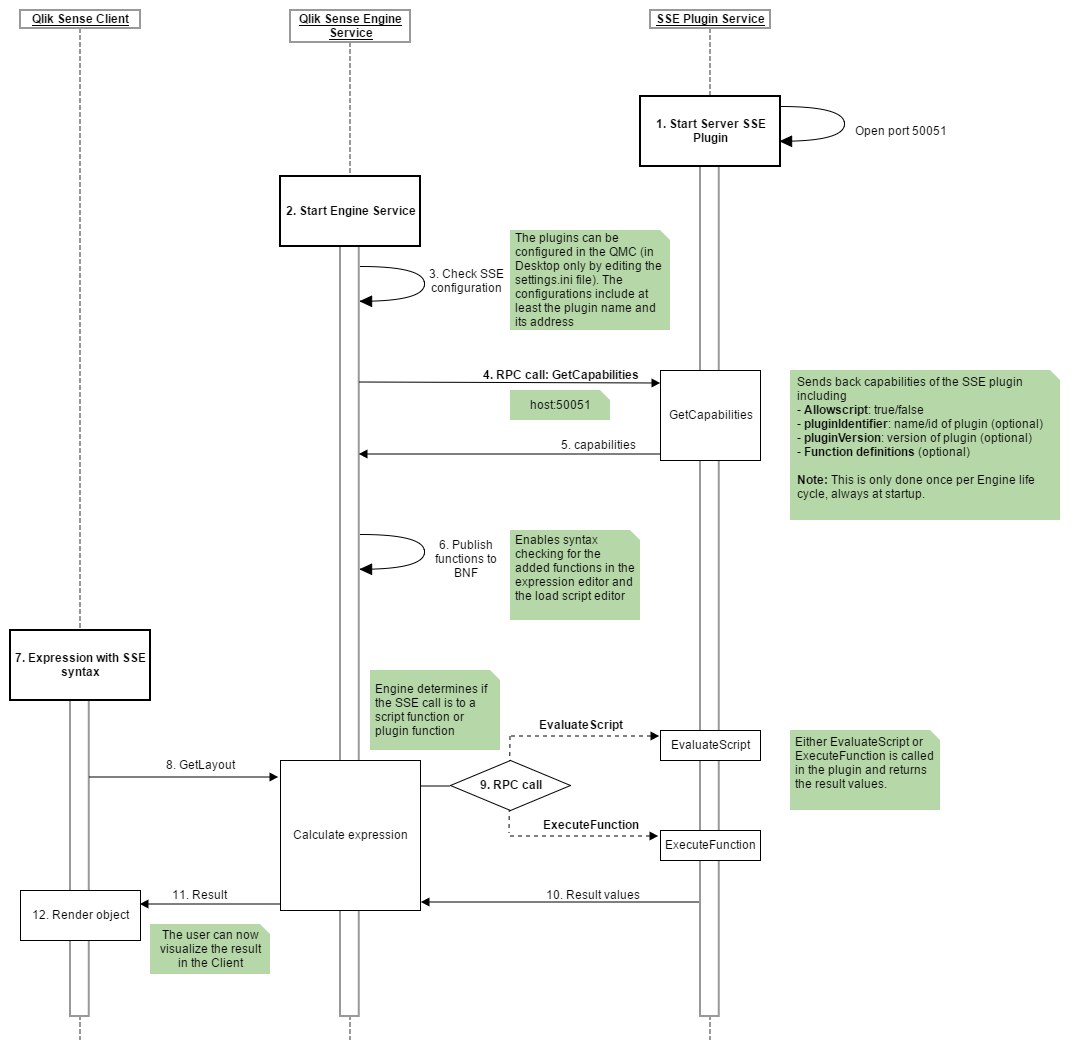
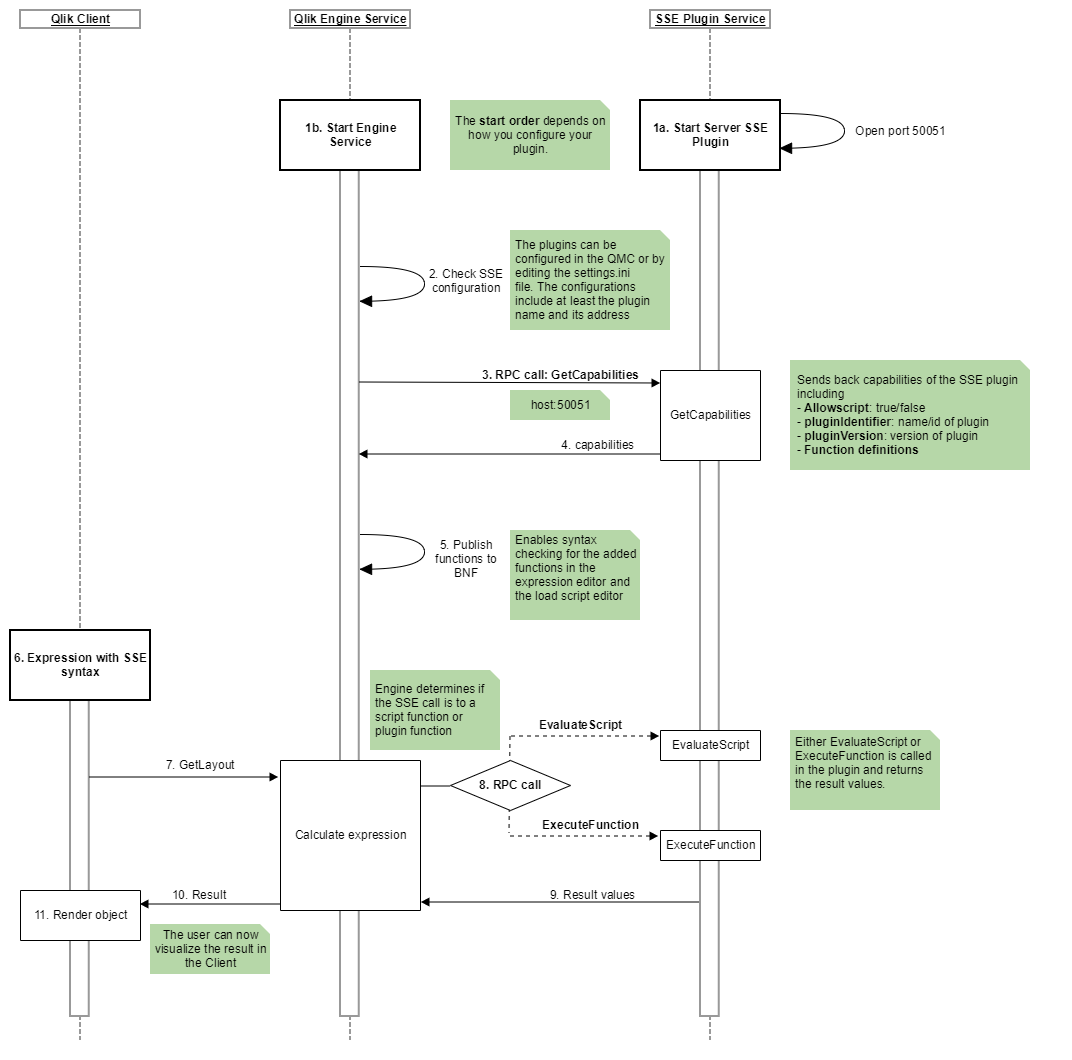
Changed capabilities and restarting engine update

diff --git a/docs/communication_flow.md b/docs/communication_flow.md
@@ -1,22 +1,21 @@
 # Communication flow
 
-The following diagram demonstrates the communication between the Qlik Sense client, the Qlik engine service, and the SSE plugin (the communication between _QlikView_ and the SSE plugin works in the same way):
+The following diagram demonstrates the communication between the Qlik Client (both Qlik Sense and QlikView), the Qlik Engine service, and the SSE plugin:
 
 ![](SSE_communication_flow.png?raw=true)
 
 The communication flow is as follows:
 
-1. The SSE plugin (the server), is started.
-    * The specified port, e.g. 50051, opens.
-2. The engine service is started.
-3. The engine checks the SSE configuration. Are there any plugins configured? What are their names and on what addresses are they running? Are they running with secure or insecure connection?
-4. The engine uses the address and the name fetched in the configuration and makes the first call to the plugin using `GetCapabilities`, an RPC method, to fetch the capabilities of the plugin.
-5. The plugin answers with its capabilities. Is script evaluation enabled? Are any functions added? Does the plugin have an identifier and a version?
-6. The engine publishes script functions (if script evaluation is enabled) and possibly plugin functions to the BNF to enable syntax checking in the expression and load script editors.
-7. In the Sense client, an object or a sequence in the load script contains an SSE expression.
-8. The Sense client sends a `GetLayout` request to the engine.
-9. The engine determines if the SSE call is a script function or a plugin function. If it's the former, the RPC method `EvaluateScript` is called, otherwise `ExecuteFunction` is called.
-10. Either `EvaluateScript` or `ExecuteFunction` is executed in the plugin and returns the result values to the engine.
-11. The engine returns the result to the client.
-12. The client finishes rendering the object or loading the data in the data script and the result is visible for the user.
-
+1. The start order of the SSE plugin (the server) and the Qlik Engine service depends on how you are configuring the plugin.
+    * Using QMC and _Sense Enterprise April 2018_: Any changes in the configurations can be done during runtime and you can start in any order you would like.  
+    * Configuration using Settings.ini or QMC and earlier releases: The SSE plugin must be running before the Qlik Engine service is started. Any changes in the configuration requires a restart of the Qlik Engine service. See [Limitations](limitation.md) for more information.
+2. The Qlik Engine checks the SSE configuration. Are there any plugins configured? What are their names and on what addresses are they running? Are they running with secure or insecure connection?
+3. The Qlik Engine uses the address and the name fetched in the configuration and makes the first call to the plugin using `GetCapabilities`, an RPC method, to fetch the capabilities of the plugin.
+4. The plugin answers with its capabilities. Is script evaluation enabled? Are any functions added? Does the plugin have an identifier and a version?
+5. The Qlik Engine publishes script functions (if script evaluation is enabled) and possibly plugin functions to the BNF to enable syntax checking in the expression and load script editors.
+6. In the Qlik client, an object or a sequence in the load script contains an SSE expression.
+7. The Qlik client sends a `GetLayout` request to the engine.
+8. The engine determines if the SSE call is a script function or a plugin function. If it's the former, the RPC method `EvaluateScript` is called, otherwise `ExecuteFunction` is called.
+9. Either `EvaluateScript` or `ExecuteFunction` is executed in the plugin and returns the result values to the engine.
+10. The engine returns the result to the client.
+11. The client finishes rendering the object or loading the data in the data script and the result is visible for the user.

diff --git a/docs/configuration.md b/docs/configuration.md
@@ -1,13 +1,13 @@
 # Configuring SSE plugins in Qlik
 
 ## Qlik Sense
-You must configure SSE plugins, referred to by Qlik as analytic connections, in the Qlik Management Console (QMC) or using the Qlik Repository Service API. After you add a new analytic connection, you must restart the Qlik engine.
+You must configure SSE plugins, referred to by Qlik as analytic connections, in the Qlik Management Console (QMC) or using the Qlik Repository Service API.
 
-For an overview of analytic connections, see [Analytic connections](http://help.qlik.com/en-US/sense-developer/November2017/Content/AnalyticConnections.htm) in the Qlik Sense Developers help.
+For an overview of analytic connections, see [Analytic connections](https://help.qlik.com/en-US/sense-developer/February2018/Content/AnalyticConnections.htm) in the Qlik Sense Developers help.
 
-For instructions of adding a new SSE plugin in QMC, see [Creating an analytic connection](https://help.qlik.com/en-US/sense/November2017/Subsystems/ManagementConsole/Content/create-analytic-connection.htm) in the Qlik Sense help.
+For instructions of adding a new SSE plugin in QMC, see [Creating an analytic connection](https://help.qlik.com/en-US/sense/February2018/Subsystems/ManagementConsole/Content/create-analytic-connection.htm) in the Qlik Sense help.
 
-For information about SSE plugins for Qlik Sense Desktop, see [Configuring analytic connections in Qlik Sense Desktop](http://help.qlik.com/en-US/sense/November2017/Subsystems/Hub/Content/Introduction/configure-analytic-connection-desktop.htm) in the Qlik Sense help.
+For information about SSE plugins for Qlik Sense Desktop, see [Configuring analytic connections in Qlik Sense Desktop](https://help.qlik.com/en-US/sense/February2018/Subsystems/Hub/Content/Introduction/configure-analytic-connection-desktop.htm) in the Qlik Sense help.
 
 
 ## QlikView

diff --git a/docs/limitations.md b/docs/limitations.md
@@ -8,7 +8,9 @@ When you use SSE in a chart expression or in the Qlik load script (the `LOAD ...
 #### Chart expressions cannot consume a table returned from SSE plugin
 It is only possible to consume a returned table from an SSE call in the Qlik load script when using the `LOAD ... EXTENSION` statement. In all other cases, including chart expressions, only the first column returned from the plugin will be used by Qlik.
 
-#### Changes to plugins require engine restart (Qlik Limitation)
+#### Changes to plugins require engine restart (Qlik Limitation, except Sense Enterprise April 2018)
 If you add, remove or change the capabilities of a plugin, you must restart the Qlik engine. For Qlik Sense this means either the engine service (for Qlik Sense Enterprise) or Qlik Sense Desktop. For QlikView, you must restart the QlikView Server service or QlikView Desktop.
 
 It is only during engine startup that Qlik tries to contact the SSE plugin by calling the `GetCapability` plugin method.
+
+_Update:_ This is __no longer a limitation__ in the Sense Enterprise April 2018 release if the plugin is configured in the QMC. If you are using the Settings.ini file to configure the plugins, you still need to restart Qlik engine if you change the capabilities.

diff --git a/examples/python/GetStarted.md b/examples/python/GetStarted.md
@@ -48,7 +48,8 @@ Follow these steps to quickly set up and run an example of your choice on your l
 
     Alternatively, add `SSEPlugin=<EngineName>,localhost:<port>` on a new line in your *settings.ini* file located at *C:\ProgramData\Qlik\Sense*. Insert the values for `<EngineName>` and `<port>` from the table above for the selected example.
 
-    __Note:__ Configuring the plugin via the *settings.ini* file is only valid for this node/machine; the settings will not be visible in the QMC. Also no access rules would apply in this case.
+    __Note:__ Configuring the plugin via the *settings.ini* file is only valid for this node/machine; the settings will not be visible in the QMC. Also no access rules would apply in this case.  
+    __Note:__ If you are using _Sense April 2018_, you can configure your plugins in QMC during runtime without having to restart Qlik engine in step 6 below. See [Limitations](../../docs/limitations.md) for more details.
 4. Add the *.qvf* file from the selected example folder to QMC.
 5. Run the corresponding `<examplename>` python package. The easiest way to do this is to open a command prompt, go to the example\python folder and type:
 

diff --git a/README.md b/README.md
@@ -1,7 +1,8 @@
 # Server Side Extension
 
 This repository provides a server-side extension (SSE) protocol based on gRPC that allows you to extend the Qlik built-in expression library with functionality from external calculation engines. You can use external calculation engines in both load scripts and charts. In Qlik Sense and QlikView, you connect to these server-side extensions (SSEs) by defining analytic connections.  
-This repository includes documentation that describes the SSE protocol, how to use it and how to build your own plugins. Currently we have examples written in a few different languages only but examples in more languages will come later.  
+
+This repository includes documentation that describes the SSE protocol, how to use it and how to build your own plugins. We have also examples written in a couple of different languages.  
 
 ## Status
 [![CircleCI](https://circleci.com/gh/qlik-oss/server-side-extension.svg?style=shield)](https://circleci.com/gh/qlik-oss/server-side-extension)  

diff --git a/examples/java/basic_example/README.md b/examples/java/basic_example/README.md
@@ -59,4 +59,3 @@ Start the plugin.
 
 **In a command prompt:** Go to `basic_example/target` and run `java -jar basic-example-1.0-SNAPSHOT.jar --pemDir [some location]\generate_certs_guide\sse_<Plugin name>_generated_certs\sse_<Plugin name>_server_certs`. 
 If you want, you can specify the port with `--port <Port number>`.
-Restart Qlik Sense Enterprise and go to the hub.

diff --git a/docs/README.md b/docs/README.md
@@ -16,8 +16,6 @@ The following diagram shows an example of SSE plugins communicating with Qlik:
 - Qlik is the **client**
 - The SSE plugin (Python, etc.) is the **server**.  
 
-This means that the server (that is, the plugin) must be started and running before the Qlik engine is started.
-
 ## Considerations
 
 * **General security attention**  
